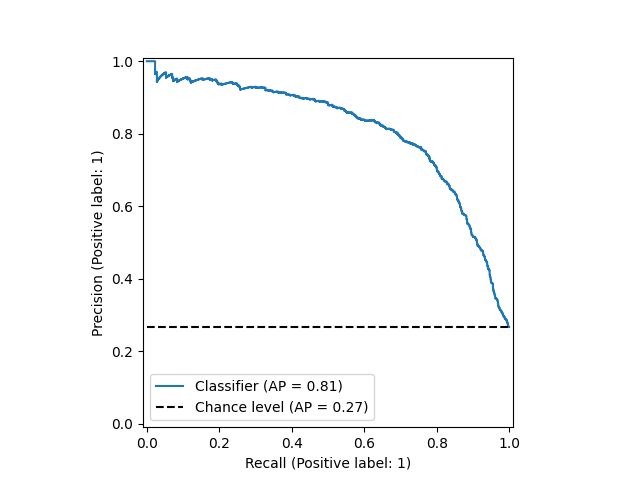
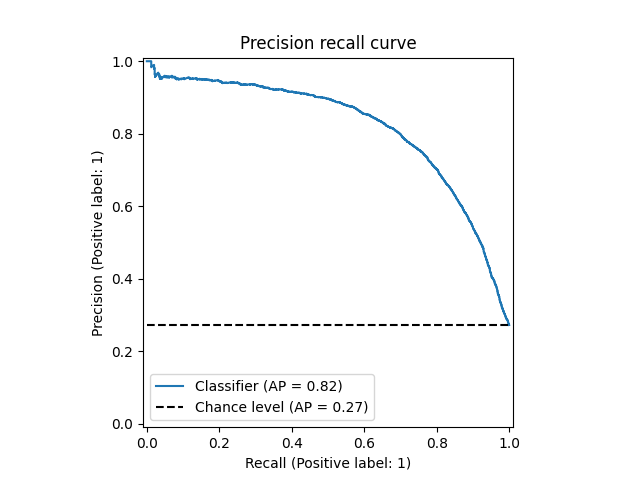
Update configuration and model training parameters; remove deprecated training script

diff --git a/src/main.py b/src/main.py
@@ -5,7 +5,7 @@ from lightning.pytorch.cli import LightningCLI
 from model import CXRModel
 import torch
 import pandas as pd
-from sklearn.metrics import auc, accuracy_score, precision_recall_curve, RocCurveDisplay, PrecisionRecallDisplay, ConfusionMatrixDisplay
+from sklearn.metrics import precision_recall_curve, RocCurveDisplay, PrecisionRecallDisplay, ConfusionMatrixDisplay
 import numpy as np
 import matplotlib.pyplot as plt
 
@@ -13,11 +13,12 @@ torch.set_float32_matmul_precision('high')
 
 # define the LightningModule
 class LitModule(L.LightningModule):
-    def __init__(self, lr, step_size, gamma):
+    def __init__(self, lr, step_size, gamma, weight_decay):
         super().__init__()
         self.lr = lr
         self.step_size = step_size
         self.gamma = gamma
+        self.weight_decay = weight_decay
         self.loss = nn.BCELoss()
         self.model = CXRModel()
         self.th = 0.5
@@ -51,10 +52,10 @@ class LitModule(L.LightningModule):
         self.pred = np.concatenate(self.pred)
 
         # PRC and ROC curve
-        PrecisionRecallDisplay.from_predictions(self.true, self.pred, plot_chance_level=True)
+        PrecisionRecallDisplay.from_predictions(self.true, self.pred, plot_chance_level=True).ax_.set_title("Precision recall curve")
         plt.savefig("results/PRC.png")
-        RocCurveDisplay.from_predictions(self.true, self.pred, plot_chance_level=True)
-        plt.savefig("results/Roc_curve.png")
+        RocCurveDisplay.from_predictions(self.true, self.pred, plot_chance_level=True).ax_.set_title("ROC curve")
+        plt.savefig("results/ROC_curve.png")
 
         # Best threshold
         precision, recall, ths = precision_recall_curve(self.true, self.pred)
@@ -66,11 +67,11 @@ class LitModule(L.LightningModule):
 
         # Confusion matrix
         self.pred = self.pred > th
-        ConfusionMatrixDisplay.from_predictions(self.true, self.pred, cmap=plt.cm.Blues).ax_.set_title(f"Acc = {np.mean(self.true == self.pred) * 100:.2f}%")
+        ConfusionMatrixDisplay.from_predictions(self.true, self.pred, cmap=plt.cm.Blues).ax_.set_title(f"Confusion matrix. Acc = {np.mean(self.true == self.pred) * 100:.2f}%")
         plt.savefig("results/confusion_matrix.png")
 
     def configure_optimizers(self):
-        optimizer = optim.Adam(self.parameters(), lr=self.lr)
+        optimizer = optim.Adam(self.parameters(), lr=self.lr, weight_decay=self.weight_decay)
         scheduler = optim.lr_scheduler.StepLR(optimizer, self.step_size, self.gamma)
         return [optimizer], [scheduler]
 

diff --git a/src/data.py b/src/data.py
@@ -77,7 +77,7 @@ class PLCODataModule(L.LightningDataModule):
         dataset = PLCO(train_transforms, self.data_dir / "train.csv")
         weights = dataset.weights()
         sampler = WeightedRandomSampler(weights=weights, num_samples=len(weights))
-        return DataLoader(dataset, batch_size=self.batch_size, shuffle=True, num_workers=self.num_workers, pin_memory=True, sampler=sampler)
+        return DataLoader(dataset, batch_size=self.batch_size, num_workers=self.num_workers, pin_memory=True, sampler=sampler)
 
     def val_dataloader(self):
         return DataLoader(PLCO(test_transforms, self.data_dir / "val.csv"), batch_size=self.batch_size, num_workers=self.num_workers, pin_memory=True)
